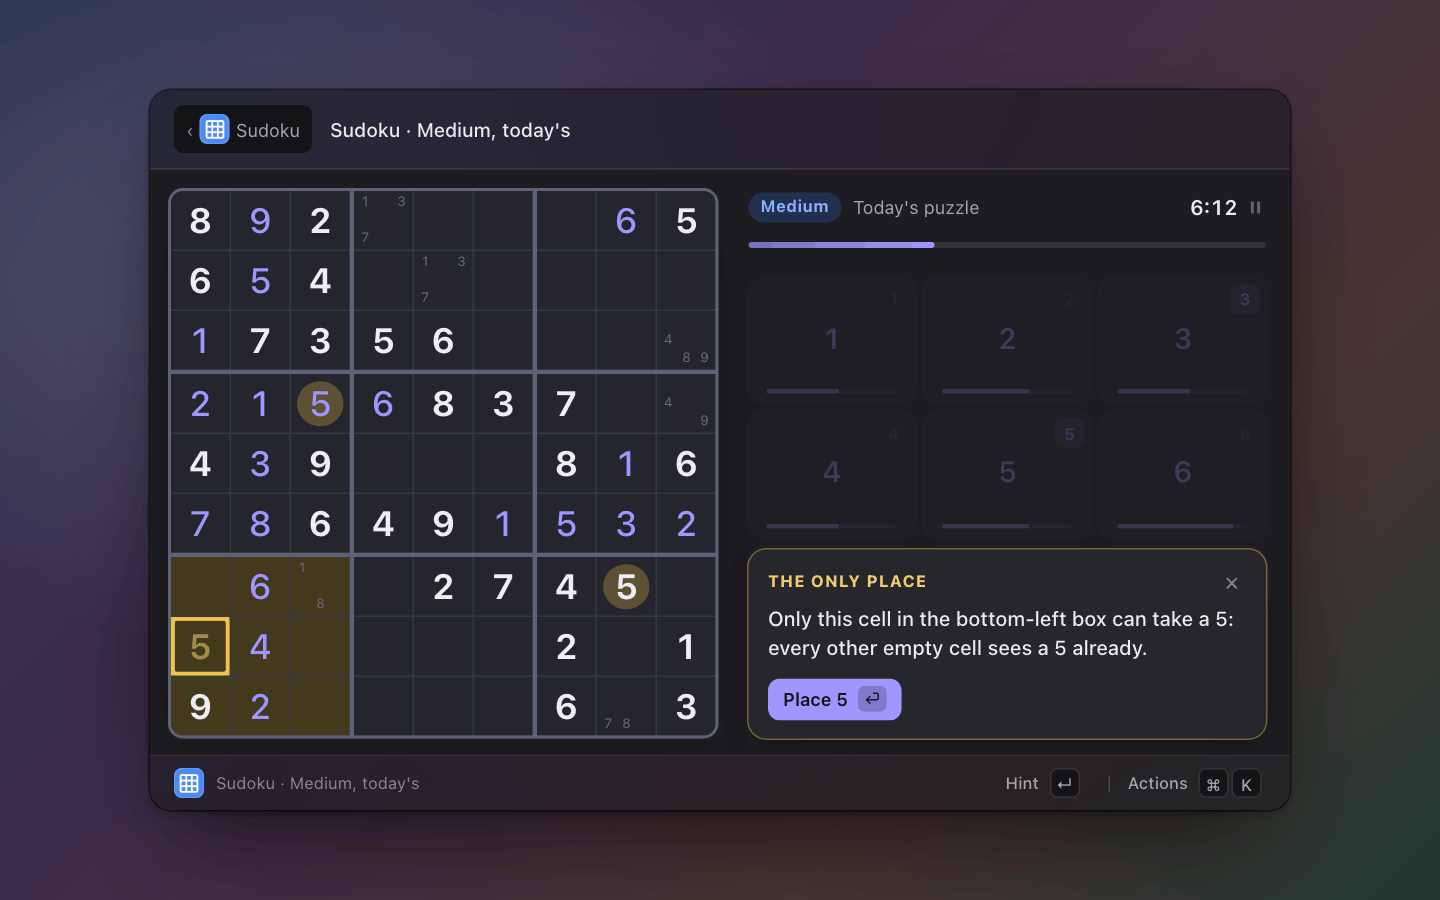
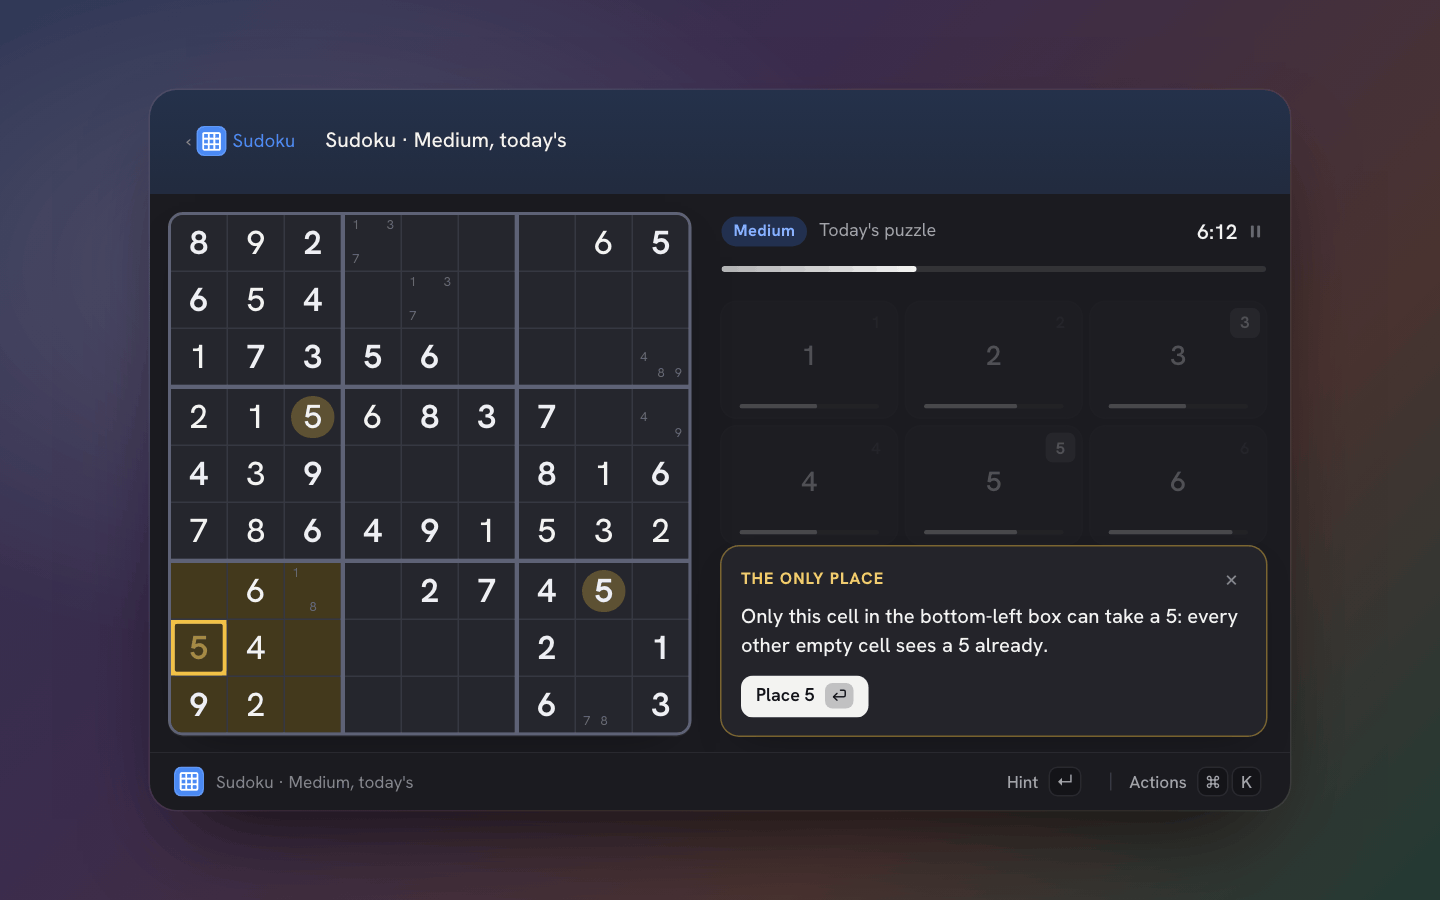
sudoku: the solve time, the peeked puzzle and the stats in the display type; radii from the panel's tokens; screenshots in Ink

diff --git a/extensions/sudoku/surface/style.css b/extensions/sudoku/surface/style.css
@@ -40,6 +40,10 @@
   --expert: #B8325D; --expert-bg: #F8DDE6;
   --ease: cubic-bezier(0.2, 0.8, 0.2, 1);
   --spring: cubic-bezier(0.3, 1.5, 0.5, 1);
+  /* The panel's display type (Ink's headline face; pal's own UI face otherwise): the solve time, the puzzle's name and the stats lead in it. */
+  --display: var(--pal-font-hero, var(--pal-font-query, var(--pal-font-ui, system-ui, sans-serif)));
+  --display-weight: var(--pal-weight-hero, 700);
+  --display-track: var(--pal-tracking-query, -0.02em);
   color-scheme: light;
 }
 :root[data-theme="dark"] {
@@ -228,7 +232,7 @@ body.solved .cell { background: var(--paper); cursor: default; }
 }
 #cover > div { display: flex; flex-direction: column; align-items: center; gap: 6px; color: var(--pal-fg-muted, #5c5c66); }
 #cover svg { width: 34px; height: 34px; fill: currentColor; stroke: none; opacity: 0.55; }
-#cover b { font-size: 17px; font-weight: 600; color: var(--pal-fg, #1A1A1F); }
+#cover b { font-family: var(--display); font-size: var(--pal-text-xl, 18px); font-weight: var(--display-weight); letter-spacing: var(--display-track); color: var(--pal-fg, #1A1A1F); }
 #cover span { font-size: 11.5px; }
 body.paused #cover { opacity: 1; pointer-events: auto; transform: none; cursor: pointer; }
 body.paused #pad, body.paused #tools { filter: blur(3px); opacity: 0.35; pointer-events: none; }
@@ -347,7 +351,7 @@ body.solved #progress i { background: var(--gold); }
 @keyframes swap { from { opacity: 0; transform: translateY(4px); } }
 #nearly {
   grid-area: hint; align-self: center; z-index: 2; height: 24px; display: flex; align-items: center; gap: 6px; padding: 0 10px; white-space: nowrap; overflow: hidden;
-  border-radius: 8px; background: var(--bad-bg); color: var(--pal-fg, #1A1A1F); font-size: 12px;
+  border-radius: var(--pal-radius-control, 8px); background: var(--bad-bg); color: var(--pal-fg, #1A1A1F); font-size: 12px;
 }
 #nearly b { font-weight: 650; color: var(--bad); }
 #nearly.in { animation: rise 260ms var(--spring); }
@@ -386,14 +390,14 @@ body.finished #pad, body.finished #tools { opacity: 0; transform: translateY(6px
 @keyframes stamp { from { transform: scale(0.3); opacity: 0; } }
 @keyframes tick { from { stroke-dashoffset: 24; } }
 #done-what { font-size: 13px; font-weight: 600; color: var(--pal-fg-muted, #5c5c66); }
-#done-time { font: 700 46px / 1.05 var(--pal-font-ui, system-ui, sans-serif); letter-spacing: -0.03em; font-variant-numeric: tabular-nums; }
+#done-time { font: var(--display-weight) 46px / 1.05 var(--display); letter-spacing: -0.03em; font-variant-numeric: tabular-nums; }
 #done-tags { display: flex; flex-wrap: wrap; gap: 6px; min-height: 22px; margin-top: 2px; }
 #done-tags span { display: inline-flex; align-items: center; height: 22px; padding: 0 9px; border-radius: 11px; background: var(--chip); color: var(--pal-fg-muted, #5c5c66); font-size: 11.5px; font-weight: 600; }
 #done-tags .gold, #done-tags .hot { background: var(--gold-soft); color: color-mix(in srgb, var(--gold) 70%, var(--pal-fg, #000)); }
 #done-tags .clean { background: var(--easy-bg); color: var(--easy); }
 #done-go { display: flex; gap: 6px; margin-top: 14px; flex-wrap: wrap; }
 #done-go button, .go button, #peek button {
-  display: inline-flex; align-items: center; gap: 7px; height: 30px; padding: 0 11px; border-radius: 8px;
+  display: inline-flex; align-items: center; gap: 7px; height: 30px; padding: 0 11px; border-radius: var(--pal-radius-control, 8px);
   background: var(--chip); font-size: 12.5px; font-weight: 550; transition: background 120ms, transform 120ms, filter 120ms;
 }
 #done-go button:hover, .go button:hover, #peek button:hover { filter: brightness(0.96); }
@@ -476,7 +480,7 @@ body.compact #help dd small { display: none; }
 /* ======================================================================== browse */
 #browse, #stats { display: flex; flex-direction: column; padding: 12px 16px 10px; }
 .bar { flex: none; height: 32px; display: flex; align-items: center; gap: 12px; }
-.tabs { display: flex; min-width: 0; padding: 2px; gap: 2px; background: var(--pal-bg-sunken, #EAEAEE); border-radius: 8px; }
+.tabs { display: flex; min-width: 0; padding: 2px; gap: 2px; background: var(--pal-bg-sunken, #EAEAEE); border-radius: var(--pal-radius-control, 8px); }
 .tabs button { height: 26px; padding: 0 11px; white-space: nowrap; border-radius: 6px; font-size: 12px; font-weight: 550; color: var(--pal-fg-muted, #5c5c66); transition: background 140ms, color 140ms, box-shadow 140ms; }
 .tabs button:hover { color: var(--pal-fg, #1A1A1F); }
 .tabs button.on { background: var(--pal-bg-elevated, #fff); color: var(--pal-fg, #1A1A1F); box-shadow: 0 0 0 1px var(--pal-line, #e2e2e8), 0 1px 2px rgba(0,0,0,.06); }
@@ -519,14 +523,14 @@ body.compact #help dd small { display: none; }
 .m.new { width: 6px; height: 6px; margin: 3px; background: color-mix(in srgb, var(--pal-fg, #000) 22%, transparent); }
 
 #peek {
-  flex: 1; min-width: 0; align-self: stretch; margin-bottom: 4px; padding: 16px 18px; border-radius: 12px;
+  flex: 1; min-width: 0; align-self: stretch; margin-bottom: 4px; padding: 16px 18px; border-radius: var(--pal-radius-popover, 12px);
   background: var(--pal-bg-elevated, #fff); box-shadow: 0 0 0 1px var(--pal-line, #e2e2e8);
   display: flex; flex-direction: column; align-items: flex-start; justify-content: center; gap: 4px;
 }
 #peek.swap > * { animation: swap 200ms var(--ease) both; }
 #peek .date { font-size: 11px; font-weight: 600; color: var(--pal-fg-muted, #5c5c66); display: flex; gap: 6px; align-items: center; }
 #peek .date em { font-style: normal; font-size: 10px; font-weight: 700; text-transform: uppercase; letter-spacing: 0.06em; color: var(--pal-accent, #4F46D6); }
-#peek .ttl { margin-top: 4px; font-size: 19px; font-weight: 650; letter-spacing: -0.015em; display: flex; align-items: center; gap: 8px; }
+#peek .ttl { margin-top: 4px; font-family: var(--display); font-size: 20px; font-weight: var(--display-weight); letter-spacing: var(--display-track); display: flex; align-items: center; gap: 8px; }
 #peek .facts { margin-top: 6px; font-size: 12px; }
 #peek .st { display: inline-flex; align-items: center; gap: 6px; color: var(--pal-fg-muted, #5c5c66); }
 #peek .go { margin-top: 14px; justify-content: flex-start; flex-wrap: wrap; }
@@ -536,7 +540,7 @@ body.compact #help dd small { display: none; }
 #list { padding-top: 10px; }
 #list.busy #rows { opacity: 0.6; }
 #rows { list-style: none; margin: 0; padding: 0; height: 100%; overflow-y: auto; scrollbar-width: none; }
-#rows li { display: grid; grid-template-columns: 16px 66px minmax(0, 1fr) 48px 52px; gap: 10px; align-items: center; height: 32px; padding: 0 10px; border-radius: 7px; cursor: pointer; font-size: 12.5px; transition: background 120ms; }
+#rows li { display: grid; grid-template-columns: 16px 66px minmax(0, 1fr) 48px 52px; gap: 10px; align-items: center; height: 32px; padding: 0 10px; border-radius: var(--pal-radius-row, 7px); cursor: pointer; font-size: 12.5px; transition: background 120ms; }
 #rows li:hover { background: var(--pal-bg-sunken, #EAEAEE); }
 #rows li.cur { background: var(--pal-accent-soft, rgba(79,70,214,.12)); }
 #rows .chip { justify-self: start; }
@@ -558,9 +562,9 @@ body.compact #browse-keys .long { display: none; }
 /* ======================================================================== stats */
 #stats-body { flex: 1; min-height: 0; display: grid; grid-template-rows: auto auto minmax(0, 1fr); gap: 12px; padding-top: 10px; }
 #tiles { display: grid; grid-template-columns: repeat(5, minmax(0, 1fr)); gap: 8px; }
-.tile { padding: 9px 11px 8px; border-radius: 10px; background: var(--pal-bg-elevated, #fff); box-shadow: 0 0 0 1px var(--pal-line, #e2e2e8); display: flex; flex-direction: column; gap: 1px; min-width: 0; }
+.tile { padding: 9px 11px 8px; border-radius: var(--pal-radius-tile, 10px); background: var(--pal-bg-elevated, #fff); box-shadow: 0 0 0 1px var(--pal-line, #e2e2e8); display: flex; flex-direction: column; gap: 1px; min-width: 0; }
 .tile .lbl { font-size: 10px; font-weight: 700; letter-spacing: 0.07em; text-transform: uppercase; color: var(--pal-fg-faint, #8e8e98); white-space: nowrap; }
-.tile b { font-size: 21px; font-weight: 700; letter-spacing: -0.02em; font-variant-numeric: tabular-nums; line-height: 1.2; }
+.tile b { font-family: var(--display); font-size: 22px; font-weight: var(--display-weight); letter-spacing: var(--display-track); font-variant-numeric: tabular-nums; line-height: 1.2; }
 .tile b small { font-size: 11px; font-weight: 600; margin-left: 3px; color: var(--pal-fg-muted, #5c5c66); letter-spacing: 0; }
 .tile .sub { font-size: 10.5px; color: var(--pal-fg-muted, #5c5c66); white-space: nowrap; overflow: hidden; text-overflow: ellipsis; min-height: 14px; }
 .tile.hot b { color: var(--gold); }
@@ -605,7 +609,7 @@ body.compact #stats .heading { display: none; }
 }
 @keyframes shimmer { from { background-position: 100% 0; } to { background-position: -50% 0; } }
 #note {
-  position: fixed; left: 50%; bottom: 14px; z-index: 11; transform: translateX(-50%); padding: 7px 14px; border-radius: 9px; white-space: nowrap;
+  position: fixed; left: 50%; bottom: 14px; z-index: 11; transform: translateX(-50%); padding: 7px 14px; border-radius: var(--pal-radius-hud, 9px); white-space: nowrap;
   background: var(--pal-bg-elevated, #fff); box-shadow: var(--pal-shadow-popover, 0 10px 40px rgba(0,0,0,.2)); font-size: 12px; font-weight: 550;
 }
 #note.in { animation: note 2600ms var(--ease) forwards; }
